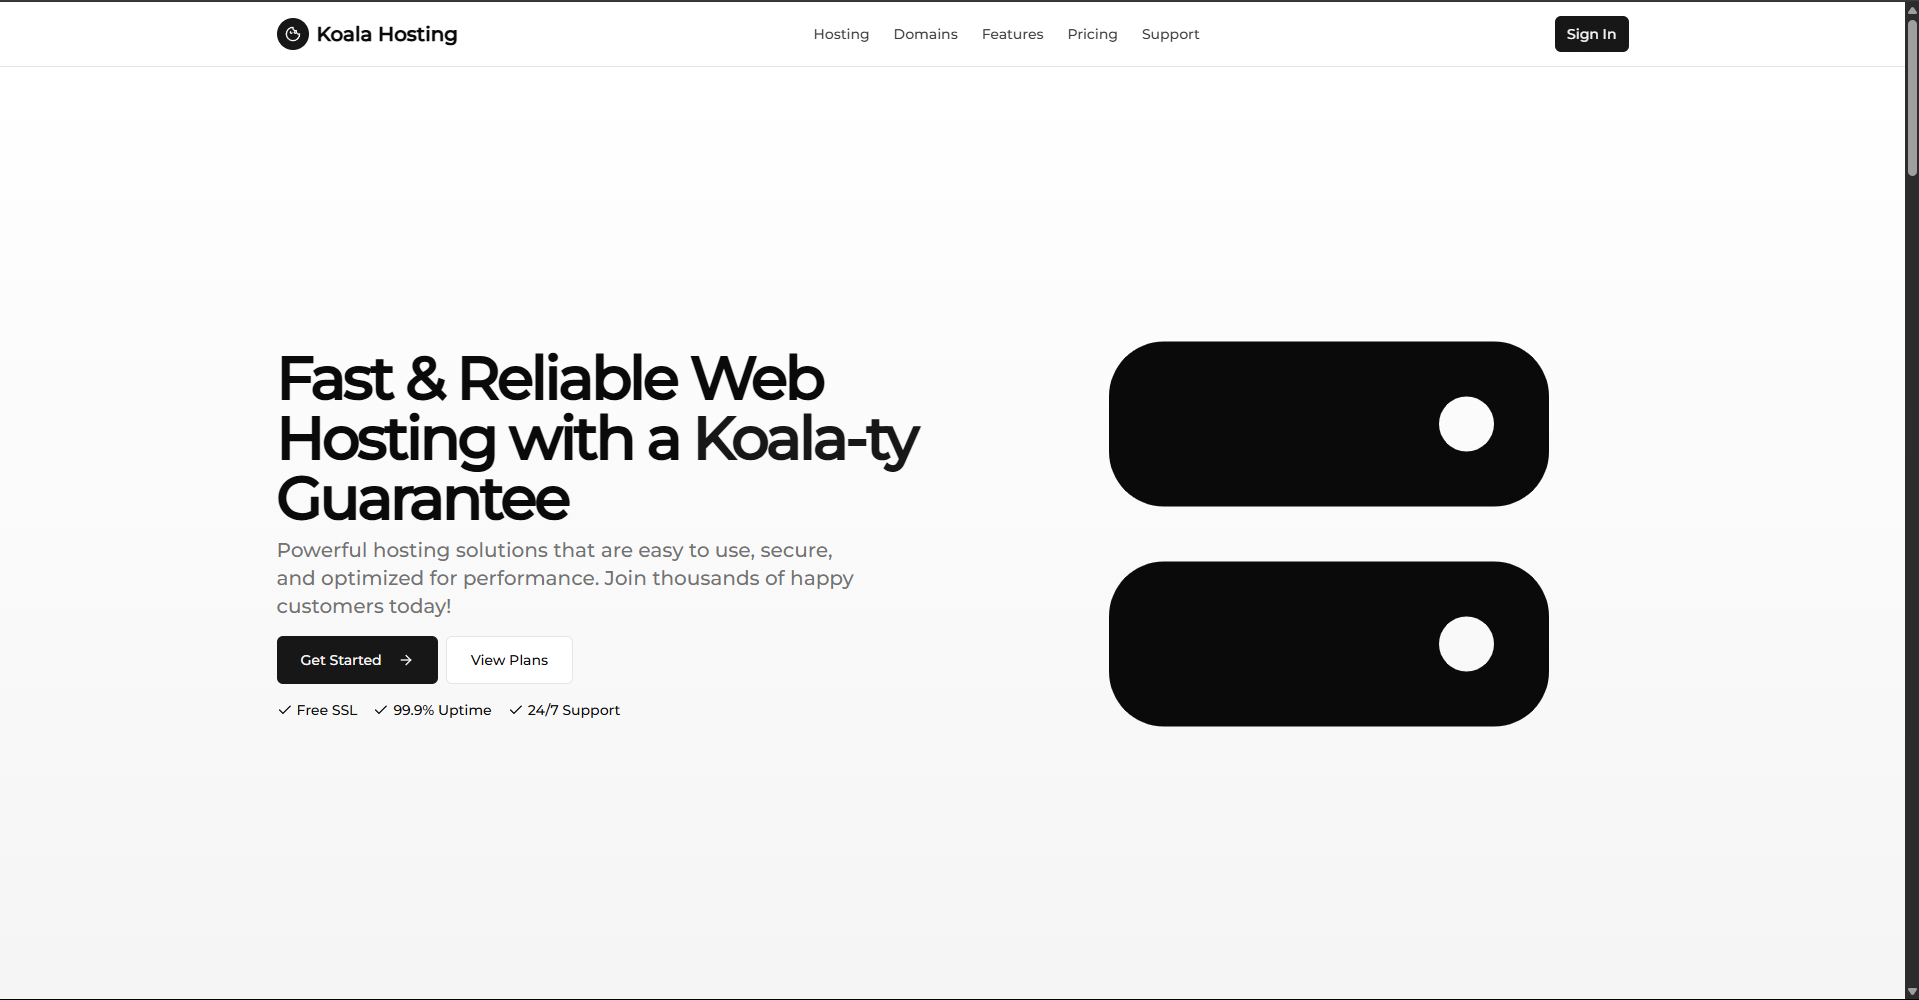
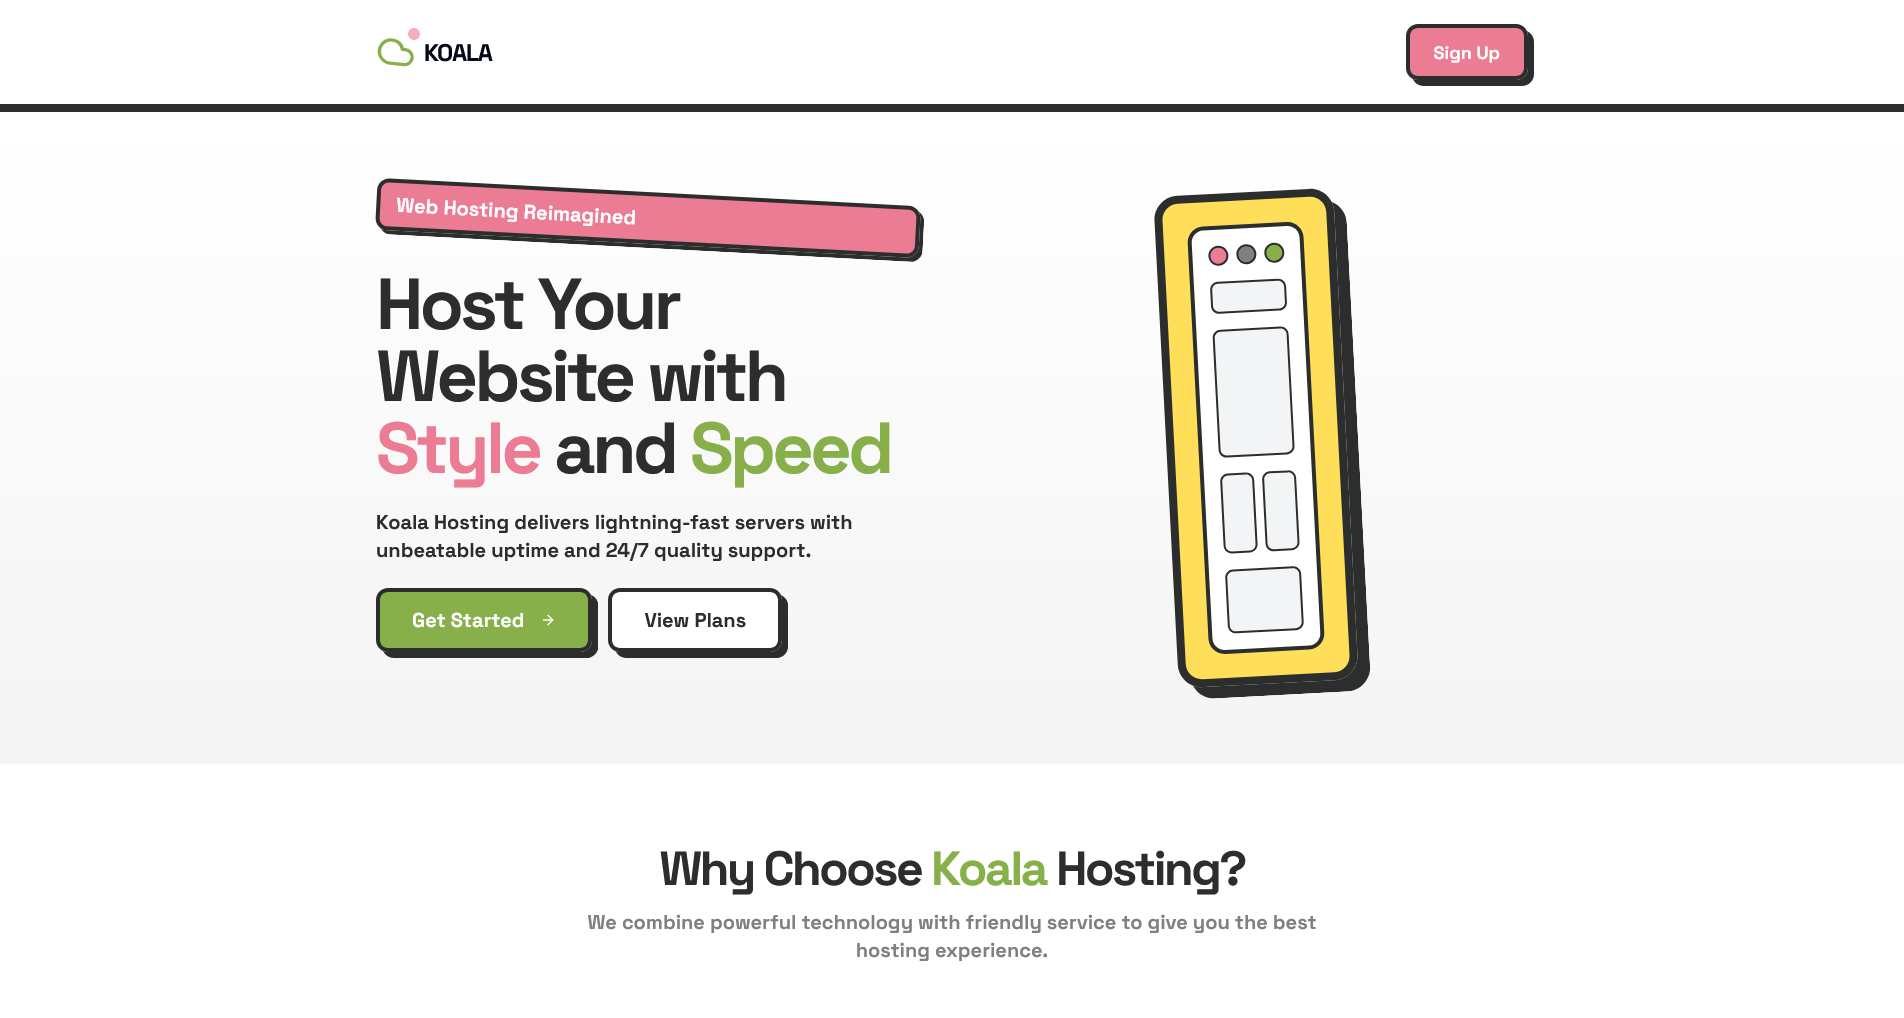
koala-update

diff --git a/src/pages/ProjectDetail.tsx b/src/pages/ProjectDetail.tsx
@@ -89,7 +89,7 @@ const projectsData: Record<string, ProjectData> = {
       "Shadcn UI",
       "TypeScript",
     ],
-    liveUrl: "https://koala-host-dev.vercel.app/",
+    liveUrl: "https://koala-dev.shrivatsav.dev/",
     githubUrl: "",
     features: [
       "Clean and modern design",
